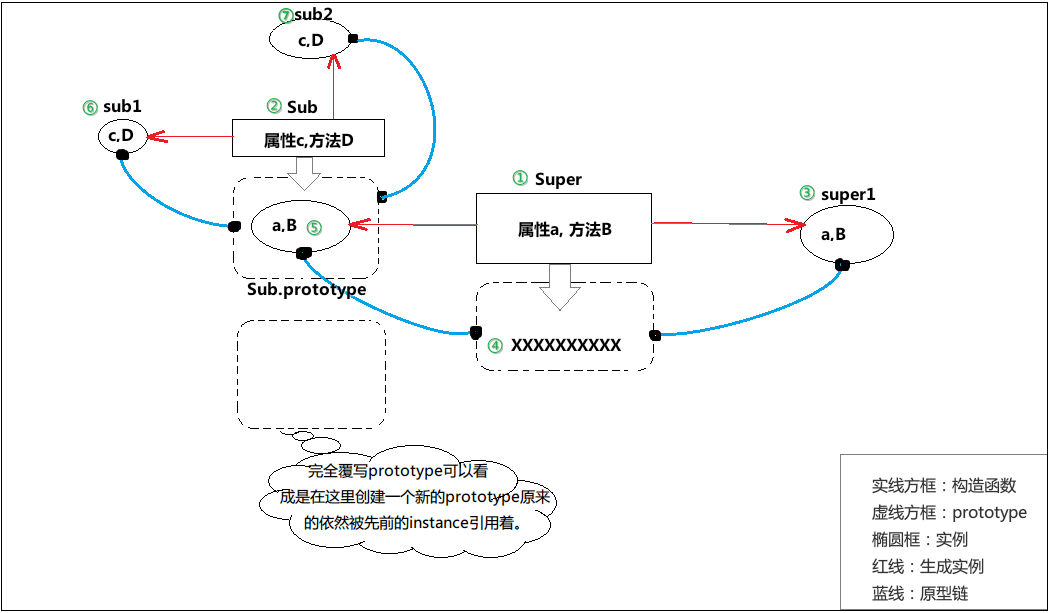
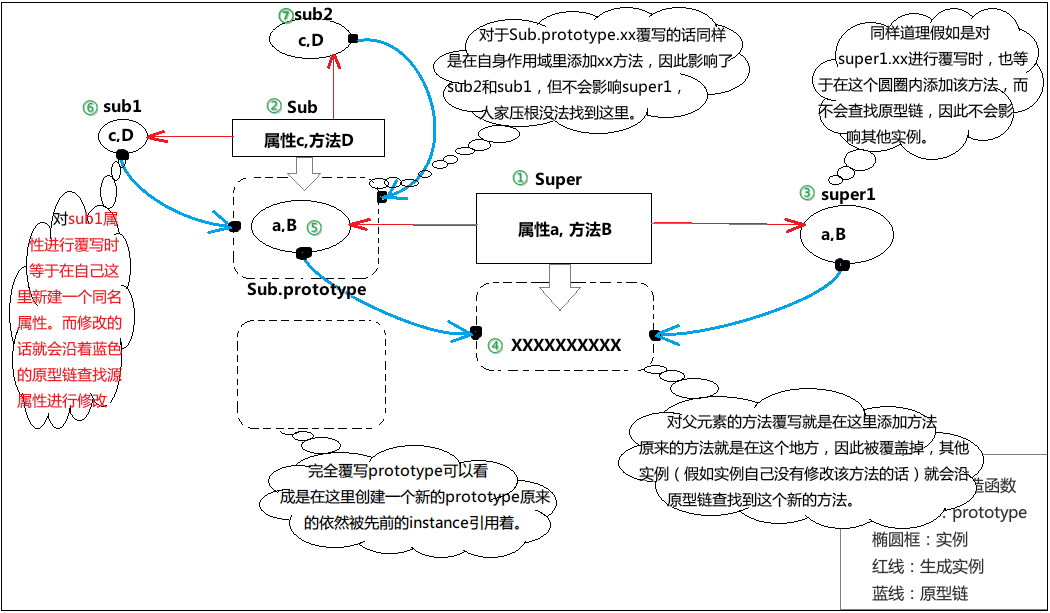
4files

diff --git a/2014/06/20/js-prototype/index.html b/2014/06/20/js-prototype/index.html
@@ -187,9 +187,10 @@ var newObj1 = new NewObj("keti","red");
 
 <br><h3>原型</h3>
 
-<p>原型是javascript里一个相当复杂的属性，那么我们先想想为什么要用原型呢？重新看看上面构造函数的例子，看上去很完美，但是假如我们现在想添加一个新的method，那怎么办？直接添加到构造函数里面？没错，这样是可以，但假如这个方法我们经常需要变动，比如说</p>
+<p>原型是javascript里一个相当复杂的属性，那么我们先想想为什么要用原型呢？重新看看上面构造函数的例子，看上去很完美，但是我们发现有个问题，对于changeColor()这个方法事实上对所有instance来说是相同的，也就是说可以共享，不像name和color那样需要绑定给每个instance。而构造函数这种形式每次都会把自身的属性全部copy一份给每个instance，这就造成了不必要的浪费；并且，当我们想修改这个方法时，就必须重新生成所有的instance才能获得更新：</p>
 
- <pre class="prettyprint linenums">function NewObj(name,num){
+ <pre class="prettyprint linenums">
+function NewObj(name,num){
     this.name = name;
     this.num = num;
     this.changNum = function(c){
@@ -203,7 +204,8 @@ newObj1.num; //很明显是100
 
 <p>我现在想修改changNum()这个函数：</p>
 
- <pre class="prettyprint linenums">function NewObj(name,num){
+ <pre class="prettyprint linenums">
+function NewObj(name,num){
     this.name = name;
     this.num = num;
     this.changNum = function(c){
@@ -214,9 +216,10 @@ newObj1.changNum(100);
 newObj1.num; //依然是100，也就是说这个对象并不受我们修改的模板影响到
 </pre>
 
-<p>我们修改了构造函数里的属性和方法，就必须重新创建实例才能应用到新的修改。而原型出现了，它将改变这种情况，我们用原型来创建一个method：</p>
+<p>原型对象里的属性和方法并不是像构造函数自身属性一样copy给每个instance，而是“引用”，也可以理解为给每个instance提供一个指向该原型对象的指针，这样每个instance就能找到原型对象里的属性，而很明显，这是一种共享，也就是说，当你修改了这个原型里的属性，那么所有共享该属性的instance都能获得这个修改。因此，原型恰好解决了上面提到的两个问题。</p>
 
- <pre class="prettyprint linenums">function NewObj(name,num){
+ <pre class="prettyprint linenums">
+function NewObj(name,num){
     this.name = name;
     this.num = num;
 }
@@ -236,7 +239,7 @@ newObj1.num; //变成200了。
 <p>它生效了。因为构造函数创建实例的过程是直接给实例赋值，而不是引用，因此已经生成的实例是无法再从构造函数里获得更新的，而原型是引用，我们看图：</p>
 <img src="/site/image/prototype1.png" ><br>
 
-<p><strong>为什么一般情况下会把属性直接写在构造函数内，而方法通过prototype添加呢？</strong>这两种方式的区别上面已经有所展现了，属性的更改频率很明显要低于方法的更改，但还有另外重要的一点就是：大部分的instance的属性都是不同的，比如说name，因此在构造函数内通过this直接绑定给instance无疑是个好方案，而方法通常是通用的，使用prototype可以让每个instance共享同一个方法，而不用每个都copy一次。</p>
+<p><strong>为什么一般情况下会把属性直接写在构造函数内，而方法通过prototype添加呢？</strong>这两种方式的区别上面已经有所展现了：大部分的instance的属性都是不同的，比如说name，因此在构造函数内通过this直接绑定给instance无疑是个好方案，而方法通常是通用的，使用prototype可以让每个instance共享同一个方法，而不用每个都copy一次。</p>
 <br><h3>原型链</h3>
 
 <p>我们通过上图可以看到所有的实例都是引用了同一个prototype，它们共享了prototype里的所有变量和方法。事实上，javascript中，所有的对象都有一个原型对象（prototype），原型对象中有一个constructor属性指向包含prototype属性的函数，当访问一个对象的属性（包括方法）时，首先查找这个对象自身有没有该属性，如果没有就查找它的原型（也就是<strong>proto</strong>指向的prototype对象），如果还没有就查找原型的原型（prototype也有它自己的<strong>proto</strong>，prototype对象），依此类推一直找到 Object 为止。</p>

diff --git a/2013/11/13/js-regexp/index.html b/2013/11/13/js-regexp/index.html
@@ -131,13 +131,14 @@
 
 <hr />
 
-<h2>这是一段检测浏览器名称及版本号的代码，里面涉及到正则表达式的匹配</h2>
-<button id="detect" class="big button">检测浏览器</button>
+<h3>这是一段检测浏览器名称及版本号的代码，里面涉及到正则表达式的匹配</h3>
+<button id="detect" class="btn">检测浏览器</button>
 <pre class="prettyprint linenums">function detectBrowser(){
     var ua = navigator.userAgent.toLowerCase();
     var reg = /(opera|firefox|chrome|safari|msie|trident(?=\/))\/?\s*([\d.]+)/i;
     var result = reg.exec(ua);
     if(result[1] == "trident"){result[2] = ua.match(/\brv\:\s*([\d.]+)/)[1];result[1]="IE";}
+    if(result[1] == "safari"){result[2] = ua.match(/\bversion\/([\d.]+)/i)[1];}
     return [result[1],result[2]];
 }
 alert('浏览器:'+detectBrowser()[0]+" "+detectBrowser()[1]);
